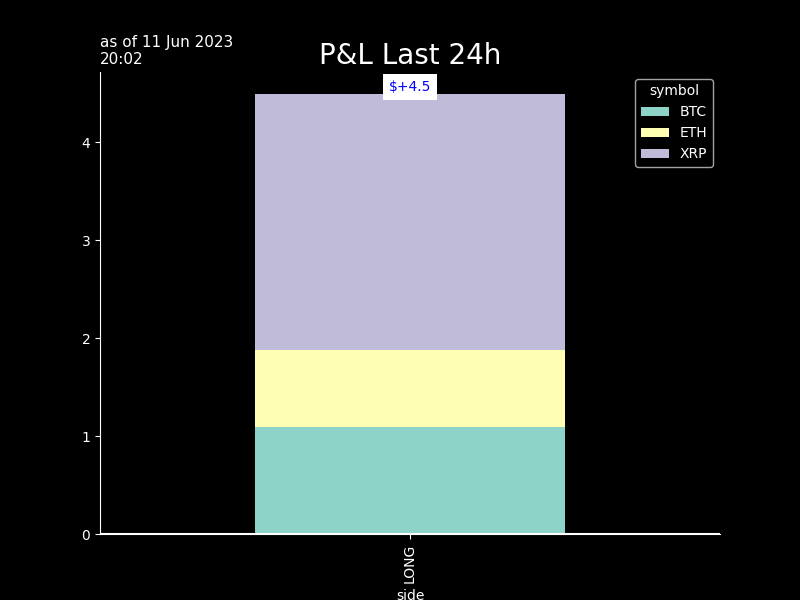
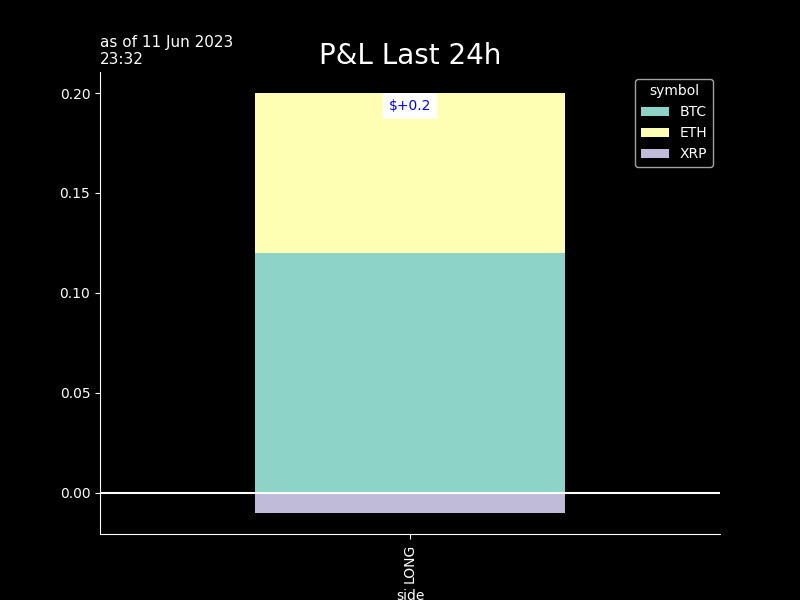
seb_commit

diff --git a/crypto/graphs/bt_trades_book.htmltrade_trades_book.html b/crypto/graphs/bt_trades_book.htmltrade_trades_book.html
@@ -37,55 +37,55 @@
   </thead>
   <tbody>
     <tr>
-      <th>ETHUSDT</th>
-      <td>1756.6400</td>
-      <td>2023-06-11 18:34:56</td>
-      <td>0.096</td>
-      <td>$168.6</td>
+      <th>BTCUSDT</th>
+      <td>25979.5000</td>
+      <td>2023-06-11 22:32:30</td>
+      <td>-0.007</td>
+      <td>$-181.9</td>
       <td>$0.03</td>
       <td>1.6</td>
+      <td>0.1</td>
+      <td>25979.35000</td>
+      <td>2023-06-11 23:31</td>
       <td>0.0</td>
-      <td>1755.99500</td>
-      <td>2023-06-11 19:32</td>
-      <td>-0.1</td>
-      <td>-4.0</td>
-      <td>1756.13</td>
-      <td>-0.1</td>
-      <td>-3.0</td>
+      <td>0.0</td>
+      <td>25981.1</td>
+      <td>-0.0</td>
+      <td>-1.0</td>
     </tr>
     <tr>
       <th>XRPUSDT</th>
-      <td>0.5212</td>
-      <td>2023-06-11 18:34:58</td>
-      <td>325.600</td>
-      <td>$169.7</td>
+      <td>0.5213</td>
+      <td>2023-06-11 22:32:14</td>
+      <td>-325.600</td>
+      <td>$-169.7</td>
       <td>$0.03</td>
       <td>1.6</td>
       <td>0.0</td>
-      <td>0.52045</td>
-      <td>2023-06-11 19:32</td>
-      <td>-0.2</td>
-      <td>-14.0</td>
-      <td>.5213</td>
-      <td>0.0</td>
-      <td>2.0</td>
-    </tr>
-    <tr>
-      <th>BTCUSDT</th>
-      <td>25961.8000</td>
-      <td>2023-06-11 18:34:56</td>
-      <td>0.007</td>
-      <td>$181.7</td>
-      <td>$0.03</td>
-      <td>1.6</td>
-      <td>0.0</td>
-      <td>25949.95000</td>
-      <td>2023-06-11 19:32</td>
+      <td>0.52135</td>
+      <td>2023-06-11 23:31</td>
+      <td>-0.0</td>
+      <td>-1.0</td>
+      <td>.5215</td>
       <td>-0.1</td>
       <td>-4.0</td>
-      <td>25955.7</td>
+    </tr>
+    <tr>
+      <th>ETHUSDT</th>
+      <td>1757.5200</td>
+      <td>2023-06-11 22:32:16</td>
+      <td>-0.096</td>
+      <td>$-168.7</td>
+      <td>$0.03</td>
+      <td>1.6</td>
+      <td>0.1</td>
+      <td>1757.73500</td>
+      <td>2023-06-11 23:31</td>
       <td>-0.0</td>
-      <td>-2.0</td>
+      <td>-1.0</td>
+      <td>1758.</td>
+      <td>-0.1</td>
+      <td>-3.0</td>
     </tr>
   </tbody>
 </table>

diff --git a/crypto/graphs/bt_trades_pnlD_recap.htmltrade_trades_pnlD_recap.html b/crypto/graphs/bt_trades_pnlD_recap.htmltrade_trades_pnlD_recap.html
@@ -1,7 +1,7 @@
 <table border="1" class="dataframe">
   <thead>
     <tr style="text-align: right;">
-      <th>11 Jun 19:35</th>
+      <th>11 Jun 23:32</th>
       <th>realizedPnl</th>
       <th>PnLvsArrival</th>
       <th>PnLvsLast</th>
@@ -10,21 +10,21 @@
   <tbody>
     <tr>
       <th>in$</th>
-      <td>0.0</td>
-      <td>-0.4</td>
+      <td>0.2</td>
+      <td>-0.0</td>
       <td>-0.1</td>
     </tr>
     <tr>
       <th>in bp 520 traded</th>
-      <td>0 bp</td>
-      <td>-7 bp</td>
+      <td>4 bp</td>
       <td>-1 bp</td>
+      <td>-2 bp</td>
     </tr>
     <tr>
-      <th>in bp 338 AUMs</th>
-      <td>0 bp</td>
-      <td>-11 bp</td>
-      <td>-2 bp</td>
+      <th>in bp 339 AUMs</th>
+      <td>7 bp</td>
+      <td>-1 bp</td>
+      <td>-4 bp</td>
     </tr>
   </tbody>
 </table>

diff --git a/crypto/graphs/bt_trades_recap.htmltrade_trades_recap.html b/crypto/graphs/bt_trades_recap.htmltrade_trades_recap.html
@@ -9,28 +9,28 @@
   <tbody>
     <tr>
       <th>as of</th>
-      <td>11Jun 18:34&gt;&gt;18:34</td>
+      <td>11Jun 22:32&gt;&gt;22:32</td>
       <td>#trades: 3</td>
     </tr>
     <tr>
       <th>trade net</th>
-      <td>+520.0</td>
-      <td>+153.5%</td>
+      <td>-520.0</td>
+      <td>-153.3%</td>
     </tr>
     <tr>
       <th>trade gross</th>
       <td>+520.0</td>
-      <td>+153.5%</td>
+      <td>+153.3%</td>
     </tr>
     <tr>
       <th>BUY</th>
-      <td>+520.0</td>
-      <td>+153.5%</td>
+      <td>+0.0</td>
+      <td>+0.0%</td>
     </tr>
     <tr>
       <th>SELL</th>
-      <td>+0.0</td>
-      <td>+0.0%</td>
+      <td>-520.0</td>
+      <td>-153.3%</td>
     </tr>
     <tr>
       <th>fees</th>
